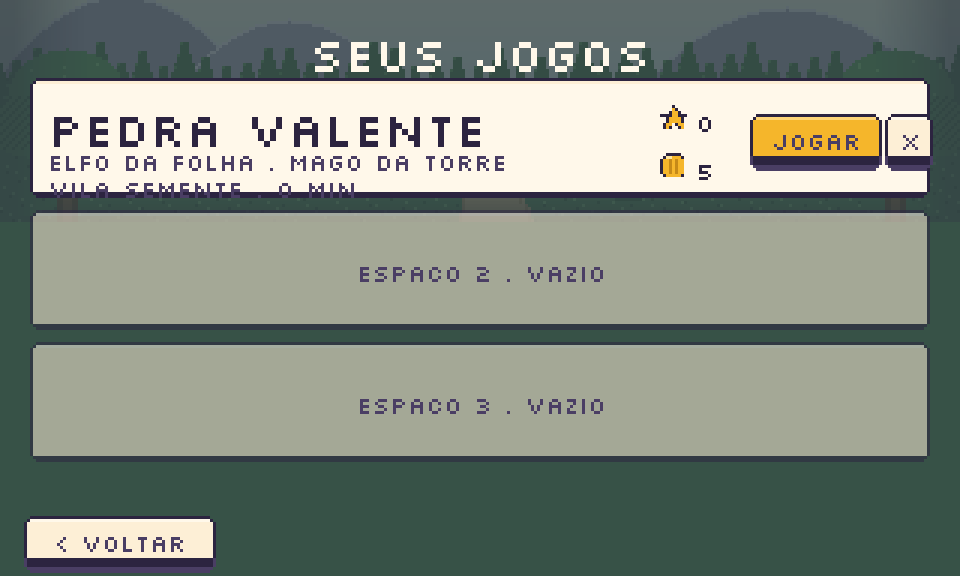
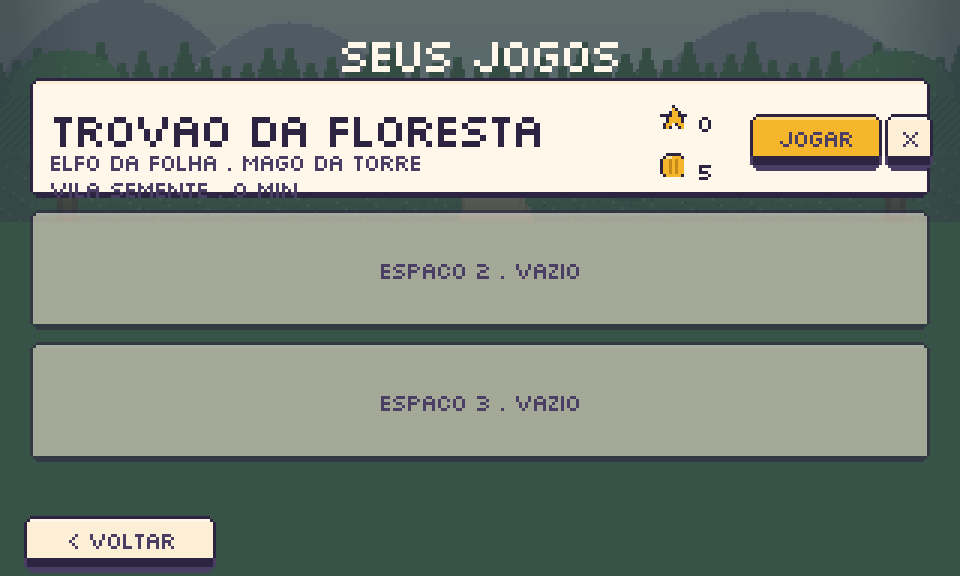
Tipografia e escala: metade do texto era vao
A Silkscreen em 8 px avanca 6 px para uma letra desenhada em 4. Metade da
largura de cada letra virava espaco vazio, e nao era so densidade: com aquele
vao a palavra se desmanchava em letras soltas, que e o contrario do que serve
para quem esta aprendendo a ler.

A frase "Voce enxerga no escuro e de bem longe" ocupava 208 px e passa a ocupar
170. Numa linha de 256 px cabem 64 letras em vez de 51. O texto que eu andei
cortando das telas por "nao caber" cabia: o vao e que comia a linha.

Junto, tres coisas que vinham da mesma raiz.

O CENTRO OPTICO. A linha tem 10 px e a letra ocupa de 4 a 9: 4 px de cada linha
sao ar acima da letra. Centrar pela altura da caixa jogava todo rotulo 1,5 px
abaixo do centro de verdade, e era isso que desalinhava texto dentro de botao e
de chapinha.

A MEDIDA. quebrar() contava 8 px por letra, mas nenhuma letra da fonte passa de
7 e a maioria tem 6. Toda tela do jogo quebrava linha cedo e deixava borda vazia
a direita. Agora quem precisa de largura exata pergunta as metricas da fonte
carregada, em vez de chutar.

A ESCALA. O botao de fechar ocupava a largura inteira da janela: 768 pontos de
tela no iPad, para um alvo de toque que precisa de 44. Botao agora tem largura
maxima. E o alvo minimo virou numero com nome em TAMANHO, derivado do dedo de
uma crianca de 7 anos na escala 3, em vez de aparecer solto em cada tela.

O nome do heroi no topo da ficha voltou para o corpo 16: ele so cai para o corpo
[…]

diff --git a/src/sistemas/design.ts b/src/sistemas/design.ts
@@ -11,22 +11,38 @@
  */
 import Phaser from "phaser";
 import { LARGURA, ALTURA } from "../dados/config";
-import { texto, marcar, OpcoesTexto } from "./texto";
+import { texto, marcar, medirTexto, AVANCO_MAX, OpcoesTexto } from "./texto";
 
 export { marcar };
 
 /** Escala de espacamento. Sempre multiplo de 2, porque a tela e pixel art. */
 export const ESPACO = { xs: 2, sm: 4, md: 6, lg: 10, xl: 16 } as const;
 
+/** A escala da interface.
+ *
+ *  O alvo e o dedo de uma crianca de 7 anos num iPad, onde o canvas roda em
+ *  escala 3: um botao de 16 px daqui vira 48 pontos de tela, e 44 e o minimo
+ *  para o dedo acertar. Por isso nada de tocar fica abaixo de 16.
+ *
+ *  Chapinha e chip nao sao alvo de toque, entao podem ser menores. Mas nao
+ *  menores que 12: a linha da fonte tem 10 px e ainda precisa de folga, senao a
+ *  letra encosta na borda. */
 export const TAMANHO = {
-  botao: 18,
-  botaoPequeno: 14,
+  botao: 16,
+  botaoPequeno: 16,
   linhaTexto: 10,
-  linhaTitulo: 18,
+  linhaTitulo: 16,
   chapa: 14,
-  paddingPainel: 8,
-  paddingTela: 10,
+  chip: 12,
+  paddingPainel: 6,
+  paddingTela: 8,
+  /** menor alvo que um dedo acerta, em px logicos (44 pontos / escala 3) */
+  alvoMinimo: 16,
 } as const;
+
+/** Largura maxima de um botao. Sem isto o FECHAR ocupava a largura inteira da
+ *  janela, o que no iPad dava 768 pontos de botao: alvo bom tem 44, nao 768. */
+export const LARGURA_MAX_BOTAO = 120;
 
 export type Retangulo = { x: number; y: number; largura: number; altura: number };
 
@@ -152,9 +168,13 @@ export function alturaDoTexto(linhas: number, tamanho: 8 | 16 = 8): number {
   return linhas * (tamanho === 16 ? TAMANHO.linhaTitulo : TAMANHO.linhaTexto);
 }
 
-/** Quebra um texto em linhas que caibam na largura, em caracteres de 8 px. */
+/** Quebra um texto em linhas que caibam na largura.
+ *
+ *  Mede pelo MAIOR avanco da fonte, nao por 8 px por letra como antes: 8 era
+ *  mais largo que qualquer letra existente, entao a linha quebrava cedo e sobrava
+ *  borda vazia a direita em toda tela do jogo. */
 export function quebrar(conteudo: string, larguraPx: number): string[] {
-  const cabe = Math.max(1, Math.floor(larguraPx / 8));
+  const cabe = Math.max(1, Math.floor(larguraPx / AVANCO_MAX));
   const palavras = conteudo.split(" ");
   const linhas: string[] = [];
   let atual = "";
@@ -213,11 +233,14 @@ export function colunas(area: Retangulo, pesos: number[], gap: number = ESPACO.m
   });
 }
 
-/** Altura de um chip, a pilula com uma palavra so. */
-export const ALTURA_CHIP = TAMANHO.botaoPequeno;
+/** Altura de um chip, a pilula com uma palavra so. Nao e alvo de toque. */
+export const ALTURA_CHIP = TAMANHO.chip;
 
-/** Largura que um chip precisa para caber o texto dele. */
-export const larguraDoChip = (conteudo: string) => conteudo.length * 8 + ESPACO.md * 2;
+/** Largura que um chip precisa para caber o texto dele, medida na fonte de
+ *  verdade. Com a conta antiga de 8 px por letra, todo chip nascia com ate 60%
+ *  de borda sobrando de um lado. */
+export const larguraDoChip = (cena: Phaser.Scene, conteudo: string) =>
+  medirTexto(cena, conteudo) + ESPACO.md * 2;
 
 /**
  * Arruma chips em linhas que caibam na largura, sem desenhar nada.
@@ -226,12 +249,17 @@ export const larguraDoChip = (conteudo: string) => conteudo.length * 8 + ESPACO.
  * primeiro pixel aparecer. Entao a mesma conta roda duas vezes: uma para medir,
  * outra para desenhar, e as duas nao podem discordar.
  */
-export function arrumarChips(textos: string[], largura: number, gap = ESPACO.sm): string[][] {
+export function arrumarChips(
+  cena: Phaser.Scene,
+  textos: string[],
+  largura: number,
+  gap = ESPACO.sm
+): string[][] {
   const linhas: string[][] = [];
   let atual: string[] = [];
   let usado = 0;
   for (const conteudo of textos) {
-    const largo = larguraDoChip(conteudo);
+    const largo = larguraDoChip(cena, conteudo);
     if (atual.length && usado + gap + largo > largura) {
       linhas.push(atual);
       atual = [];
@@ -262,7 +290,7 @@ export function chip(
   conteudo: string,
   painel: "painel-creme" | "painel-ouro" = "painel-creme"
 ) {
-  const largura = larguraDoChip(conteudo);
+  const largura = larguraDoChip(cena, conteudo);
   marcar(
     cena.add.nineslice(x, y, painel, undefined, largura, ALTURA_CHIP, 8, 8, 8, 8).setOrigin(0),
     "fundo"

diff --git a/src/sistemas/texto.ts b/src/sistemas/texto.ts
@@ -7,10 +7,33 @@
  *
  * Tamanhos: use sempre multiplo de 8. A fonte foi desenhada em 8 px, entao 8, 16,
  * 24 e 32 ficam perfeitos e qualquer valor no meio volta a borrar.
+ *
+ * Duas correcoes de metrica moram aqui, e valem para TODO texto do jogo:
+ *
+ * 1. O ESPACO ENTRE LETRAS. A Silkscreen em 8 px avanca 6 px para uma letra
+ *    desenhada em 4: metade da largura de cada letra vira vao. A frase "Voce
+ *    enxerga no escuro e de bem longe" ocupava 208 px e passa a ocupar 170, e
+ *    numa linha de 256 px cabem 64 letras em vez de 51. Nao e so densidade: com
+ *    o vao antigo a palavra se desmancha e a crianca le letra por letra.
+ *
+ * 2. O CENTRO OPTICO. A linha tem 10 px de altura e a letra ocupa de 4 a 9,
+ *    entao 4 px de cada linha sao ar acima da letra. Centrar pela caixa joga o
+ *    texto 1,5 px abaixo do centro de verdade, e era isso que desalinhava todo
+ *    rotulo dentro de botao e de chapinha.
  */
 import Phaser from "phaser";
 
 export const FONTE_BITMAP = "aurora";
+
+/** Quanto encolher o avanco de cada letra. Ver a nota 1 no topo do arquivo. */
+export const TRACKING = -1;
+
+/** O maior avanco da fonte, ja com o tracking. Serve para medir por cima quando
+ *  nao da para perguntar a fonte de verdade: nenhuma letra passa disto. */
+export const AVANCO_MAX = 7 + TRACKING;
+
+/** Quanto o texto sobe para ficar no centro optico. Ver a nota 2 no topo. */
+const DESVIO_OPTICO = 2;
 
 /** Marca o objeto para o auditor de UI saber o que ele e.
  *  Mora aqui, e nao em design.ts, so para nao criar import circular. */
@@ -42,7 +65,11 @@ export function texto(
   conteudo: string,
   op: OpcoesTexto = {}
 ): Phaser.GameObjects.BitmapText {
-  const t = cena.add.bitmapText(x, y, FONTE_BITMAP, conteudo, op.tamanho ?? 8);
+  const tamanho = op.tamanho ?? 8;
+  const t = cena.add.bitmapText(x, y, FONTE_BITMAP, conteudo, tamanho);
+  // o Phaser ja multiplica o espacamento pela escala da fonte, entao o valor
+  // aqui e sempre o mesmo: multiplicar de novo colava as letras no corpo 16
+  t.setLetterSpacing(TRACKING);
   if (op.cor !== undefined) t.setTint(op.cor);
   if (op.larguraMax) t.setMaxWidth(op.larguraMax);
   if (op.alinhamento !== undefined) t.setCenterAlign?.();
@@ -50,6 +77,9 @@ export function texto(
   if (op.alinhamento === 2) t.setRightAlign();
   if (op.entrelinha !== undefined) t.setLineSpacing(op.entrelinha);
   t.setOrigin(op.ancora ?? 0, op.ancoraY ?? 0);
+  // so quem pede para centrar verticalmente precisa da correcao: quem ancora no
+  // topo ja esta onde mandou
+  if (op.ancoraY === 0.5) t.y -= (DESVIO_OPTICO * (tamanho / 8)) / 2;
   marcar(t, "texto", conteudo.slice(0, 24));
   return t;
 }
@@ -67,4 +97,23 @@ export function textoComSombra(
   const desvio = Math.max(1, Math.round((op.tamanho ?? 8) / 8));
   marcar(texto(cena, x + desvio, y + desvio, conteudo, { ...op, cor: corSombra }), "fundo");
   return texto(cena, x, y, conteudo, op);
+}
+
+/** Largura exata de um texto, perguntando as metricas da fonte carregada.
+ *
+ *  Existe porque medir "8 px por letra" errava por ate 60%: a fonte avanca de 3
+ *  a 7 px conforme a letra. Quem monta chip e chapinha precisa da largura de
+ *  verdade, senao sobra ou falta borda. */
+export function medirTexto(cena: Phaser.Scene, conteudo: string, tamanho: 8 | 16 | 24 | 32 = 8) {
+  const fonte = cena.cache.bitmapFont.get(FONTE_BITMAP) as
+    | { data: { chars: Record<number, { xAdvance: number }>; size: number } }
+    | undefined;
+  if (!fonte) return conteudo.length * (AVANCO_MAX * (tamanho / 8));
+  const escala = tamanho / fonte.data.size;
+  let largura = 0;
+  for (const ch of conteudo) {
+    const c = fonte.data.chars[ch.charCodeAt(0)];
+    largura += ((c?.xAdvance ?? AVANCO_MAX) + TRACKING) * escala;
+  }
+  return Math.ceil(largura);
 }

diff --git a/src/cenas/Ficha.ts b/src/cenas/Ficha.ts
@@ -47,7 +47,7 @@ import {
   quebrar,
   Retangulo,
 } from "../sistemas/design";
-import { texto } from "../sistemas/texto";
+import { medirTexto, texto } from "../sistemas/texto";
 import { refazerAoRedimensionar } from "../sistemas/visao";
 import { tocar } from "../sistemas/som";
 
@@ -112,7 +112,7 @@ export class Ficha extends Phaser.Scene {
     const arma = acharArma(classe.arma);
     const magias = st.heroi.magias.map((m) => acharMagia(m)?.nome).filter((n): n is string => !!n);
 
-    const chips = (textos: string[]): Bloco => ({ tipo: "chips", linhas: arrumarChips(textos, largura) });
+    const chips = (textos: string[]): Bloco => ({ tipo: "chips", linhas: arrumarChips(this, textos, largura) });
     const paragrafo = (conteudo: string): Bloco => ({ tipo: "texto", linhas: quebrar(conteudo, largura) });
 
     return [
@@ -240,7 +240,7 @@ export class Ficha extends Phaser.Scene {
       conteudo
     );
     if (valor === undefined) return;
-    chip(this, linha.x + linha.largura - larguraDoChip(valor), linha.y, valor, "painel-ouro");
+    chip(this, linha.x + linha.largura - larguraDoChip(this, valor), linha.y, valor, "painel-ouro");
   }
 
   /** Retrato de um lado, quem ele e do outro. E a cabeca da ficha de papel. */
@@ -268,9 +268,9 @@ export class Ficha extends Phaser.Scene {
 
     const rNome = p.reservar(TAMANHO.linhaTitulo);
     const nome = st.heroi.nome || "Heroi";
-    // 16 px por letra na fonte grande: nome comprido volta para a fonte pequena
-    // em vez de vazar para fora do painel
-    const tamanho = nome.length * 16 <= rNome.largura ? 16 : 8;
+    // o nome do heroi e o titulo da tela: so cai para a fonte pequena quando o
+    // nome medido de verdade nao couber na coluna
+    const tamanho = medirTexto(this, nome, 16) <= rNome.largura ? 16 : 8;
     marcar(
       texto(this, rNome.x, meio(rNome), nome, { tamanho, cor: COR.tinta, ancoraY: 0.5 }),
       "texto",

diff --git a/src/sistemas/janela.ts b/src/sistemas/janela.ts
@@ -12,7 +12,7 @@
 import Phaser from "phaser";
 import { ALTURA, LARGURA, COR } from "../dados/config";
 import { botao } from "./botao";
-import { ESPACO, TAMANHO, caixa, marcar, meio, pilha, Retangulo } from "./design";
+import { ESPACO, LARGURA_MAX_BOTAO, TAMANHO, caixa, marcar, meio, pilha, Retangulo } from "./design";
 
 /** Largura de janela na visao normal. Em tela menor ela encolhe junto.
  *
@@ -84,7 +84,7 @@ export function janela(
   const larguraSeta = virar ? TAMANHO.botao + ESPACO.lg : 0;
   const larguraFechar = Math.min(
     linhaFechar.largura - (larguraSeta + ESPACO.sm) * 2,
-    LARGURA_MAXIMA / 2
+    LARGURA_MAX_BOTAO
   );
   botao(
     cena,

diff --git a/ferramentas/auditoria-ui.md b/ferramentas/auditoria-ui.md
@@ -9,16 +9,16 @@ Problemas encontrados: 0
 | 02-criacao-nome | Criacao:21 Som:0 | 0 |
 | 03-criacao-raca | Criacao:42 Som:0 | 0 |
 | 04-criacao-classe | Criacao:42 Som:0 | 0 |
-| 05-criacao-poder | Criacao:35 Som:0 | 0 |
+| 05-criacao-poder | Criacao:34 Som:0 | 0 |
 | 06-criacao-aparencia | Criacao:92 Som:0 | 0 |
 | 07-criacao-sem-equipamento | Criacao:90 Som:0 | 0 |
 | 08-criacao-pronto | Criacao:24 Som:0 | 0 |
 | 09-mundo | Mundo:80 Interface:37 Som:0 | 0 |
 | 10-ficha-heroi | Interface:37 Ficha:40 Som:0 | 0 |
-| 10b-ficha-poderes | Interface:37 Ficha:31 Som:0 | 0 |
-| 10c-ficha-sei-fazer | Interface:37 Ficha:27 Som:0 | 0 |
+| 10b-ficha-poderes | Interface:37 Ficha:29 Som:0 | 0 |
+| 10c-ficha-sei-fazer | Interface:37 Ficha:26 Som:0 | 0 |
 | 11-pausa | Interface:37 Pausa:22 Som:0 | 0 |
-| 12-configuracoes | Interface:37 Pausa:35 Som:0 | 0 |
+| 12-configuracoes | Interface:37 Pausa:34 Som:0 | 0 |
 | 13-titulo-com-save | Titulo:16 Som:0 | 0 |
 | 14-carregar | Carregar:30 Som:0 | 0 |
 
